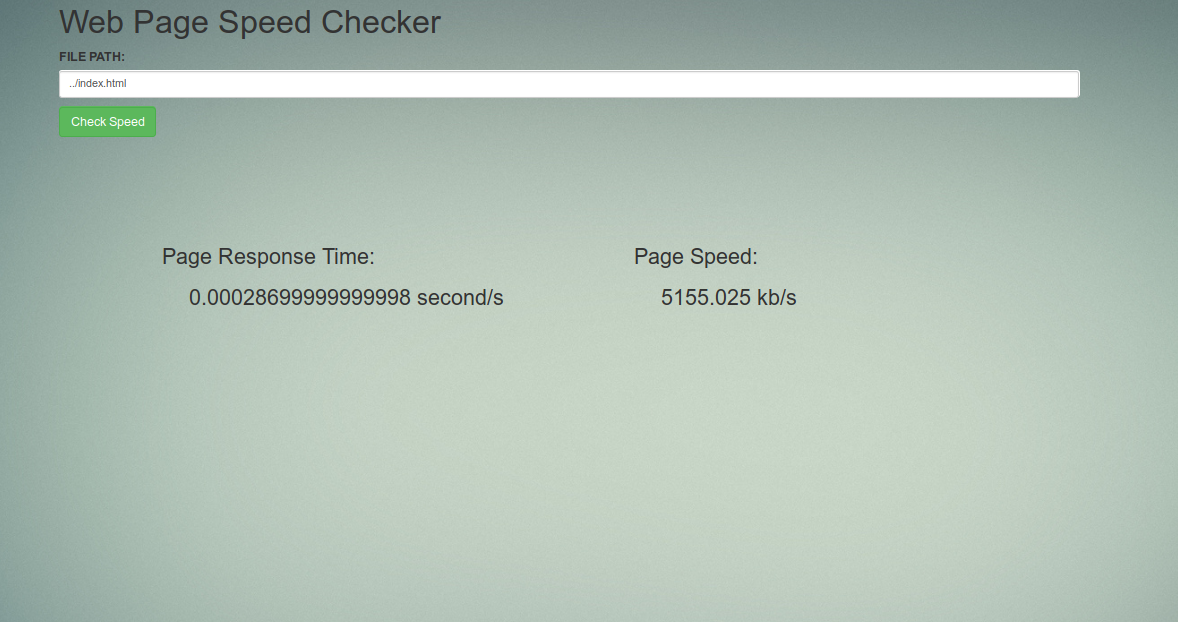
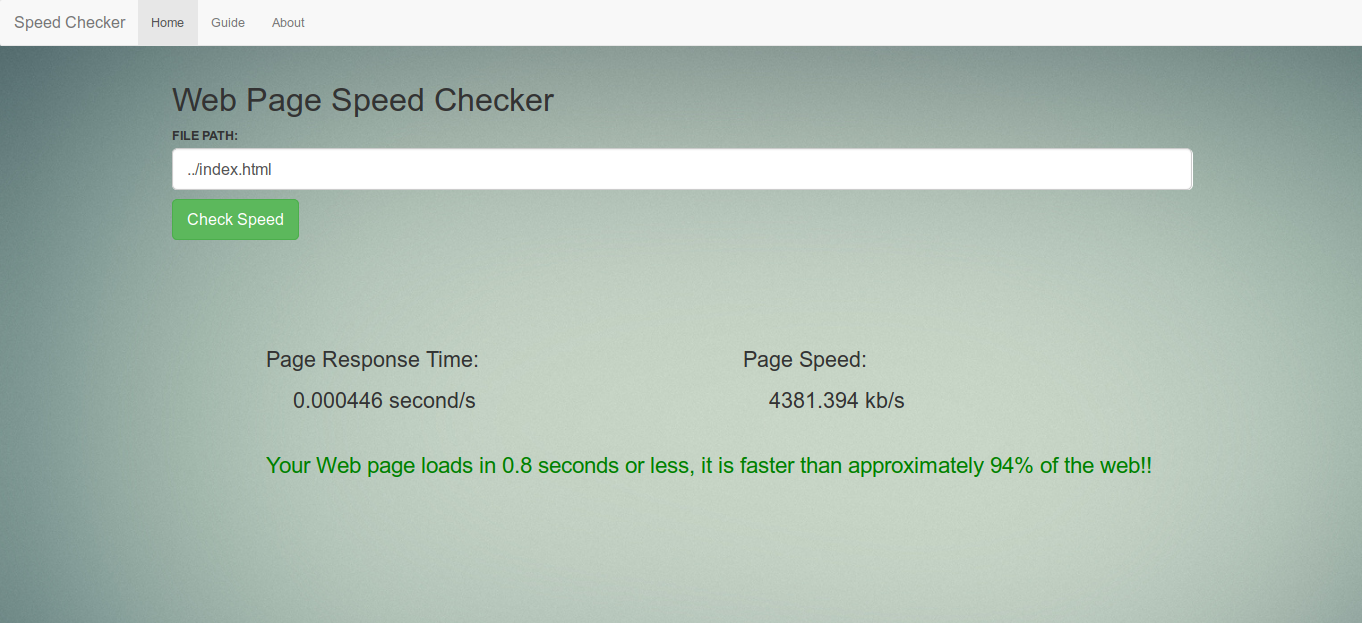
updated readme

diff --git a/README.md b/README.md
@@ -3,3 +3,7 @@ A Web Page Speed Checker written in PHP
 
 
 ![alt text](screenshot.png)
+
+
+I Added some guides in handling web pages speed
+![alt text](screenshot2.png)
